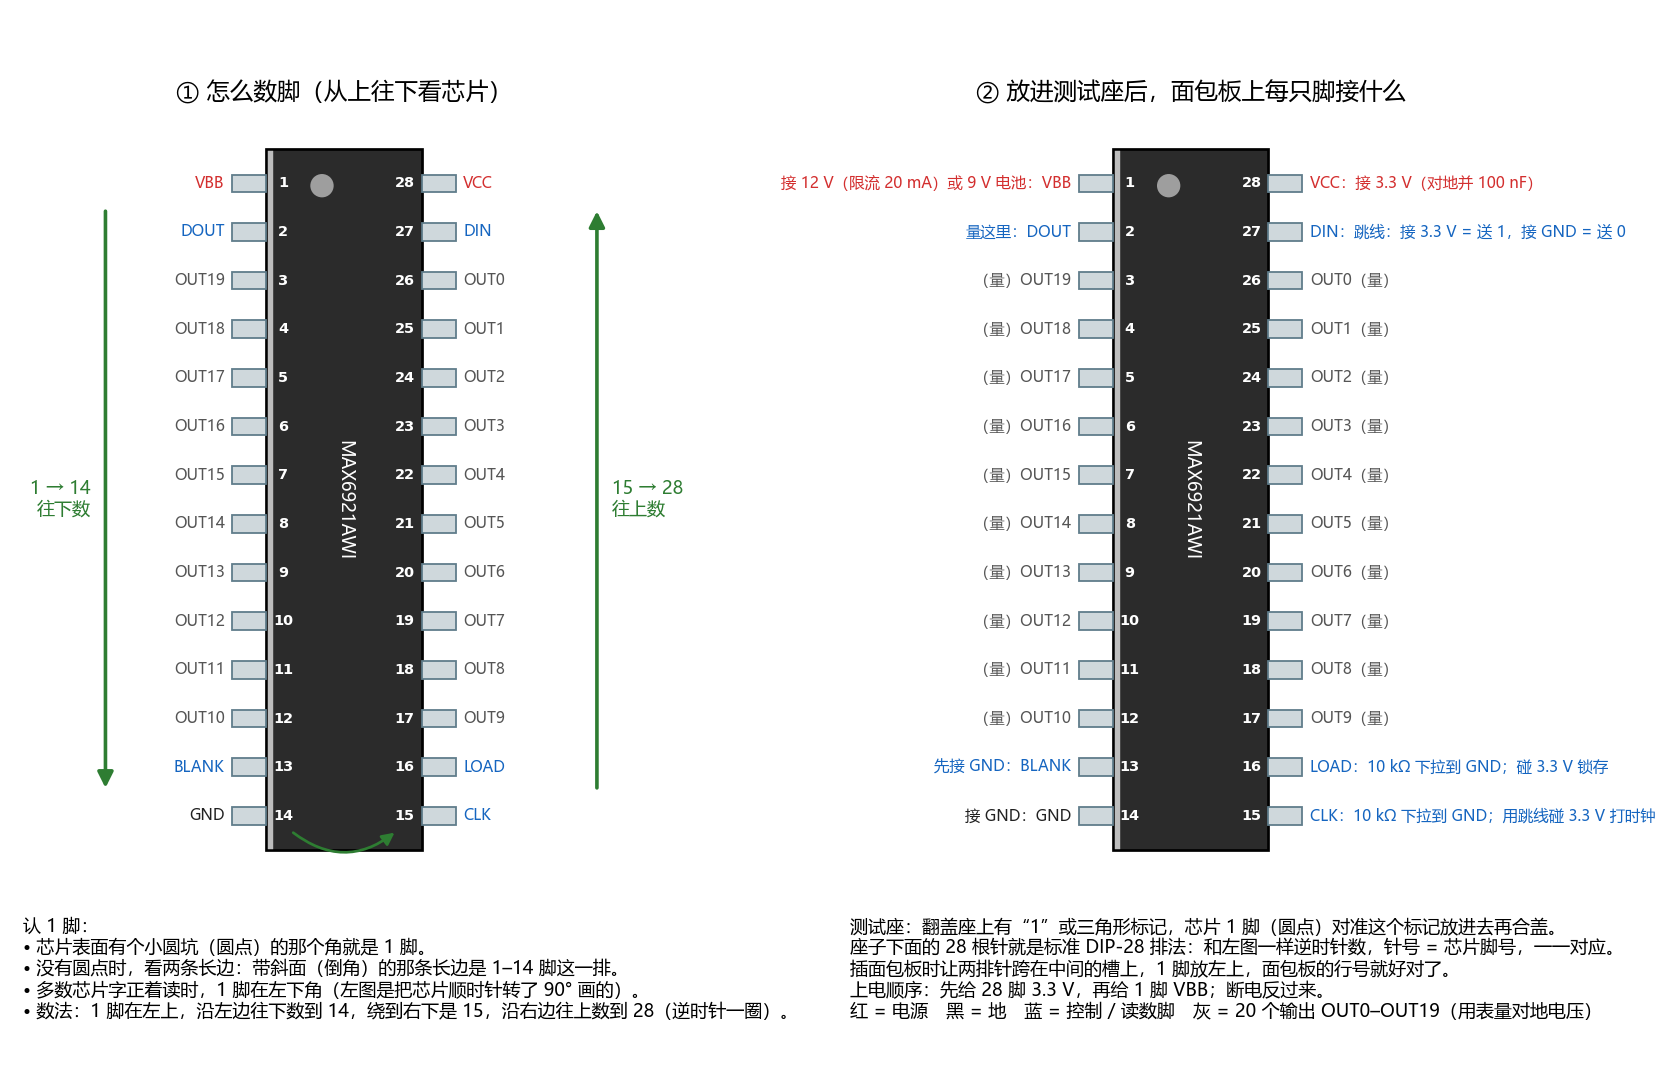
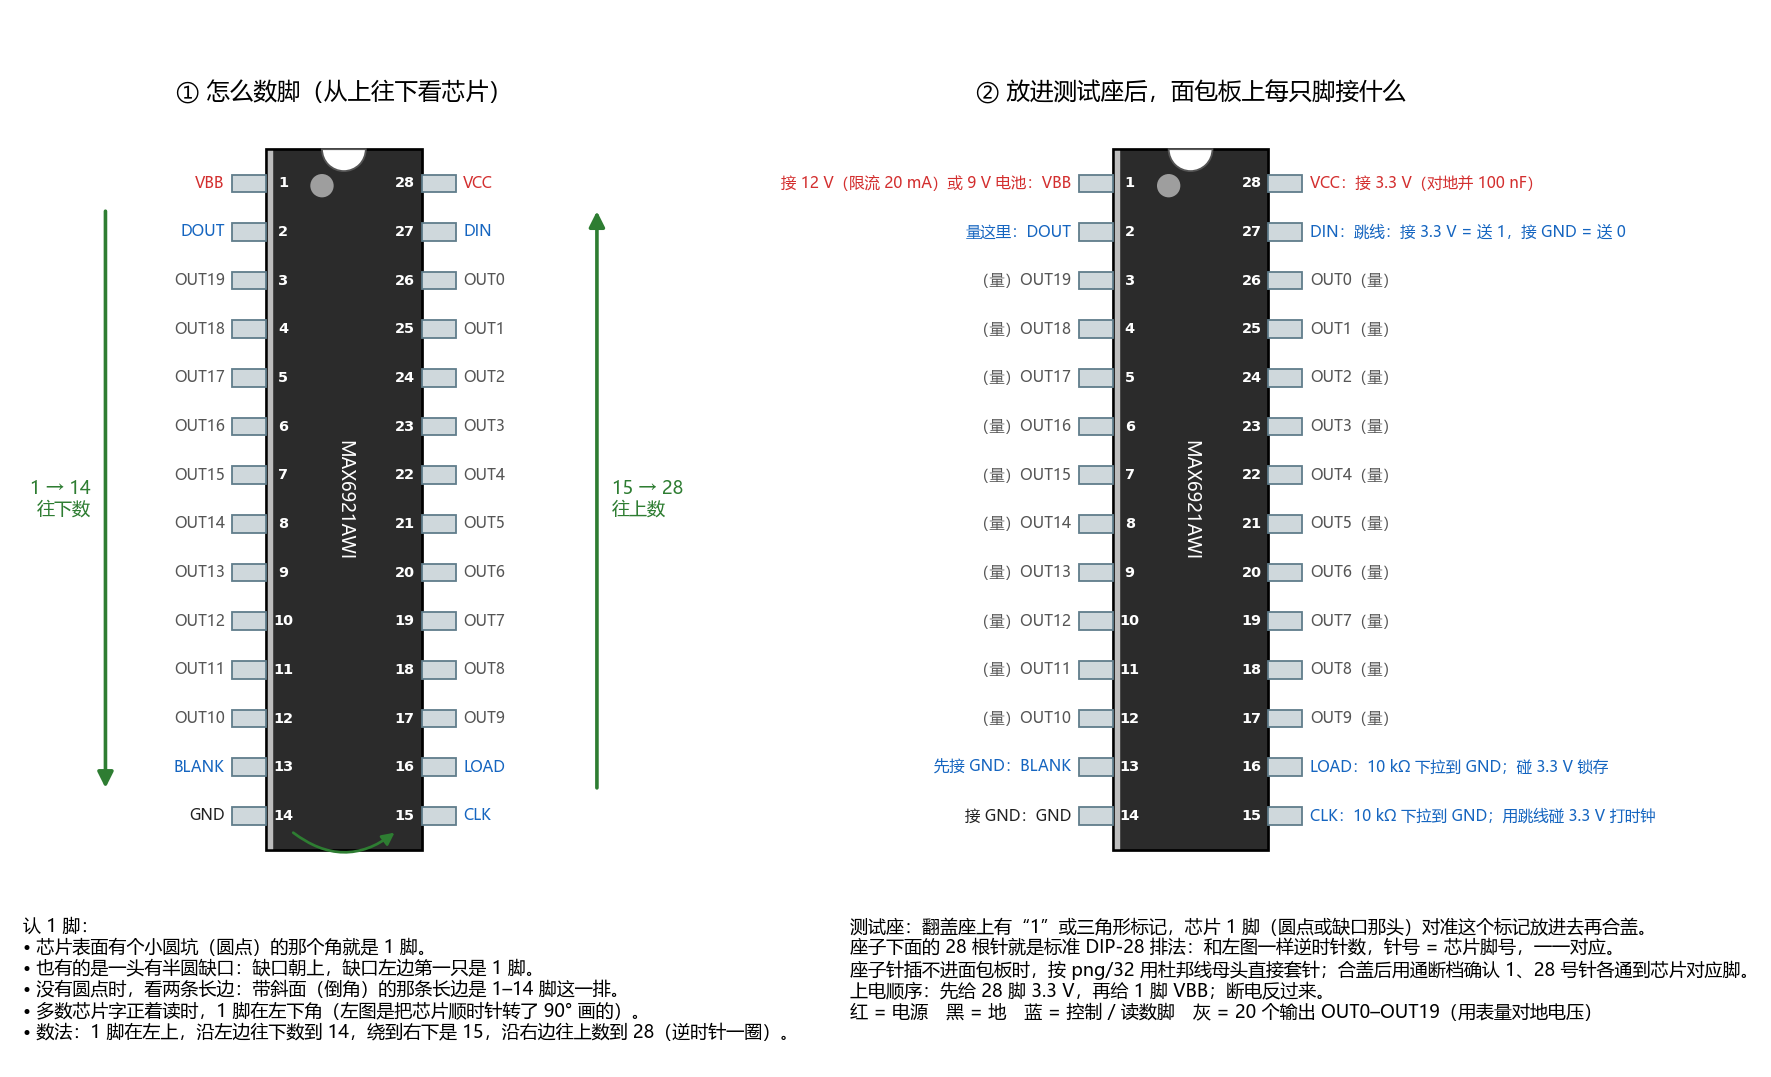
MAX6921 脚位图补“半圆缺口”认 1 脚法，测试座说明改为杜邦线套针 + 通断确认
用户的 MAX6921 没有圆点、只有一头半圆缺口，且首次测试 VBB 电流 40 mA、DOUT 恒 0，疑似芯片在座里放反。
图上加缺口示意与文字（缺口朝上、左边第一只是 1 脚）；右侧去掉已不适用的“插面包板”说明，
改为指向 png/32 杜邦线接法，并提示合盖后用通断档确认 1、28 号针通到芯片对应脚。

diff --git a/el_driver/焊接图/装配调试流程.html b/el_driver/焊接图/装配调试流程.html
@@ -26,7 +26,7 @@ figcaption{font-size:12.5px;color:#444;padding:4px 8px;border-top:1px solid var(
 #big img{max-width:100%;max-height:100%;background:#fff;border-radius:6px}
 </style></head><body><div class="wrap">
 <h1>MIS-01 装配调试流程</h1>
-<div class="sub">按顺序一个阶段一个阶段做；每步做完打勾（记在这个浏览器里）。各板的元件作用、电路原理点“焊接图”看；测试数值嵌在每个阶段末尾（来自 el_driver/上电测试清单.txt，2026-10-27 23:24 生成）。写“（叫我）”的步骤是要我在电脑上做的。</div>
+<div class="sub">按顺序一个阶段一个阶段做；每步做完打勾（记在这个浏览器里）。各板的元件作用、电路原理点“焊接图”看；测试数值嵌在每个阶段末尾（来自 el_driver/上电测试清单.txt，2026-10-28 00:18 生成）。写“（叫我）”的步骤是要我在电脑上做的。</div>
 <div class="box"><h3>目录</h3><ol class="toc"><li><a href="#s0">阶段 0　准备：工具、来料检查、MAX6921 测真伪</a> <span class="pg" data-s="s0"></span></li><li><a href="#s1">阶段 1　直插热身：键盘转接板 + IN-14 小板 ×7</a> <span class="pg" data-s="s1"></span></li><li><a href="#s2">阶段 2　HV-UNI 高压小板 ×3（第一次接触高压）</a> <span class="pg" data-s="s2"></span></li><li><a href="#s3">阶段 3　回流焊三块板：IV-18 → 电源板 → EL 接口板</a> <span class="pg" data-s="s3"></span></li><li><a href="#s4">阶段 4　电源板上电测试（整机的电都从它出）</a> <span class="pg" data-s="s4"></span></li><li><a href="#s5">阶段 5　ESP32 底板 + 烧固件（所有仪表板的控制中心）</a> <span class="pg" data-s="s5"></span></li><li><a href="#s6a">阶段 6a　辉光驱动板 + IN-14 ×6（用 HV-UNI #1）</a> <span class="pg" data-s="s6a"></span></li><li><a href="#s6b">阶段 6b　6E2 猫眼板（用 HV-UNI #2）</a> <span class="pg" data-s="s6b"></span></li><li><a href="#s6c">阶段 6c　盖革主板 + 夹子板（400 V）</a> <span class="pg" data-s="s6c"></span></li><li><a href="#s6d">阶段 6d　IV-18 板 + XL6009 + 端板</a> <span class="pg" data-s="s6d"></span></li><li><a href="#s7">阶段 7　斜面板（按键、编码器、推子、6 档模式开关）</a> <span class="pg" data-s="s7"></span></li><li><a href="#s8">阶段 8　EL 屏链路（最后做：屏坏了买不到）</a> <span class="pg" data-s="s8"></span></li><li><a href="#s9">阶段 9　整机装配与联调</a> <span class="pg" data-s="s9"></span></li></ol></div>
 <div class="box"><h3>每块板都适用的规矩</h3><ul><li>每块板的焊接顺序：先矮后高——电阻、二极管 → IC 座 / 芯片 → 瓷片电容 → 排针排母、XH 座 → 电解电容 → 大件（电感、TO-220、管座）。矮件先焊，板子翻过来压在桌上时元件不会掉。</li><li>有极性的件焊之前对一下丝印：二极管色环端 = 阴极；电解电容白条 = 负极；IC 缺口 / 圆点 = 1 脚；库存三极管先用万用表二极管档定 E、B、C。</li><li>一组料焊完就在焊接图上打勾；点开那一行能看到每个元件是干什么的，点“电路说明”看这一块的原理——焊之前先看一遍。</li><li>焊完一块板：放大镜看一遍焊点（光亮、圆锥形、没有连锡和虚焊），用 IPA 刷洗助焊剂，晾干。高压板再刷三防漆（焊接图和清单里写了刷哪里）。</li><li>每块板第一次通电都用可调限流电源，限流设到“正常电流 × 1.5”。电流不对、读数不对就停下，先别往下做。</li><li>高压板（HV-UNI、辉光、6E2、盖革）：断电 → 等 3–4 s → 用表量高压点 &lt; 30 V → 再碰；单手操作，表笔先夹地。</li></ul></div>
 <section id="s0"><h2><span class="pg" data-s="s0"></span>阶段 0　准备：工具、来料检查、MAX6921 测真伪</h2>

diff --git a/fig_max6921_pinout.py b/fig_max6921_pinout.py
@@ -41,7 +41,8 @@ def chip(ax, x0, title, wiring):
     w, pitch, top = 3.2, 1.0, 13.5
     body = Rectangle((x0, top - 13 * pitch - 0.7), w, 13 * pitch + 1.4, fc="#2b2b2b", ec="black", lw=1.5)
     ax.add_patch(body)
-    ax.add_patch(Circle((x0 + 1.15, top - 0.05), 0.24, fc="#9e9e9e", ec="none"))            # 1 脚圆点
+    ax.add_patch(Circle((x0 + 1.15, top - 0.05), 0.24, fc="#9e9e9e", ec="none"))
+    ax.add_patch(matplotlib.patches.Wedge((x0 + w / 2, top + 0.7), 0.45, 180, 360, fc="white", ec="#555", lw=1))  # 半圆缺口（有的芯片只有这个）            # 1 脚圆点
     ax.plot([x0 + 0.08, x0 + 0.08], [top - 13 * pitch - 0.62, top + 0.62], color="#bdbdbd", lw=3)  # 1–14 侧倒角
     ax.text(x0 + w / 2, top - 6.5 * pitch, "MAX6921AWI", color="white", ha="center", va="center",
             fontproperties=F, fontsize=10, rotation=270)  # 字底朝 1–14 脚那条长边
@@ -82,6 +83,7 @@ ax.add_patch(FancyArrowPatch((x0 + 0.5, top - 13.3), (x0 + w - 0.5, top - 13.3),
 ax.text(0.2, -1.6,
         "认 1 脚：\n"
         "• 芯片表面有个小圆坑（圆点）的那个角就是 1 脚。\n"
+        "• 也有的是一头有半圆缺口：缺口朝上，缺口左边第一只是 1 脚。\n"
         "• 没有圆点时，看两条长边：带斜面（倒角）的那条长边是 1–14 脚这一排。\n"
         "• 多数芯片字正着读时，1 脚在左下角（左图是把芯片顺时针转了 90° 画的）。\n"
         "• 数法：1 脚在左上，沿左边往下数到 14，绕到右下是 15，沿右边往上数到 28（逆时针一圈）。",
@@ -90,9 +92,9 @@ ax.text(0.2, -1.6,
 # 右：测试座接线
 x1, *_ = chip(ax, 22.6, "② 放进测试座后，面包板上每只脚接什么", wiring=True)
 ax.text(17.2, -1.6,
-        "测试座：翻盖座上有“1”或三角形标记，芯片 1 脚（圆点）对准这个标记放进去再合盖。\n"
+        "测试座：翻盖座上有“1”或三角形标记，芯片 1 脚（圆点或缺口那头）对准这个标记放进去再合盖。\n"
         "座子下面的 28 根针就是标准 DIP-28 排法：和左图一样逆时针数，针号 = 芯片脚号，一一对应。\n"
-        "插面包板时让两排针跨在中间的槽上，1 脚放左上，面包板的行号就好对了。\n"
+        "座子针插不进面包板时，按 png/32 用杜邦线母头直接套针；合盖后用通断档确认 1、28 号针各通到芯片对应脚。\n"
         "上电顺序：先给 28 脚 3.3 V，再给 1 脚 VBB；断电反过来。\n"
         "红 = 电源　黑 = 地　蓝 = 控制 / 读数脚　灰 = 20 个输出 OUT0–OUT19（用表量对地电压）",
         fontproperties=F, fontsize=10, va="top", ha="left")
